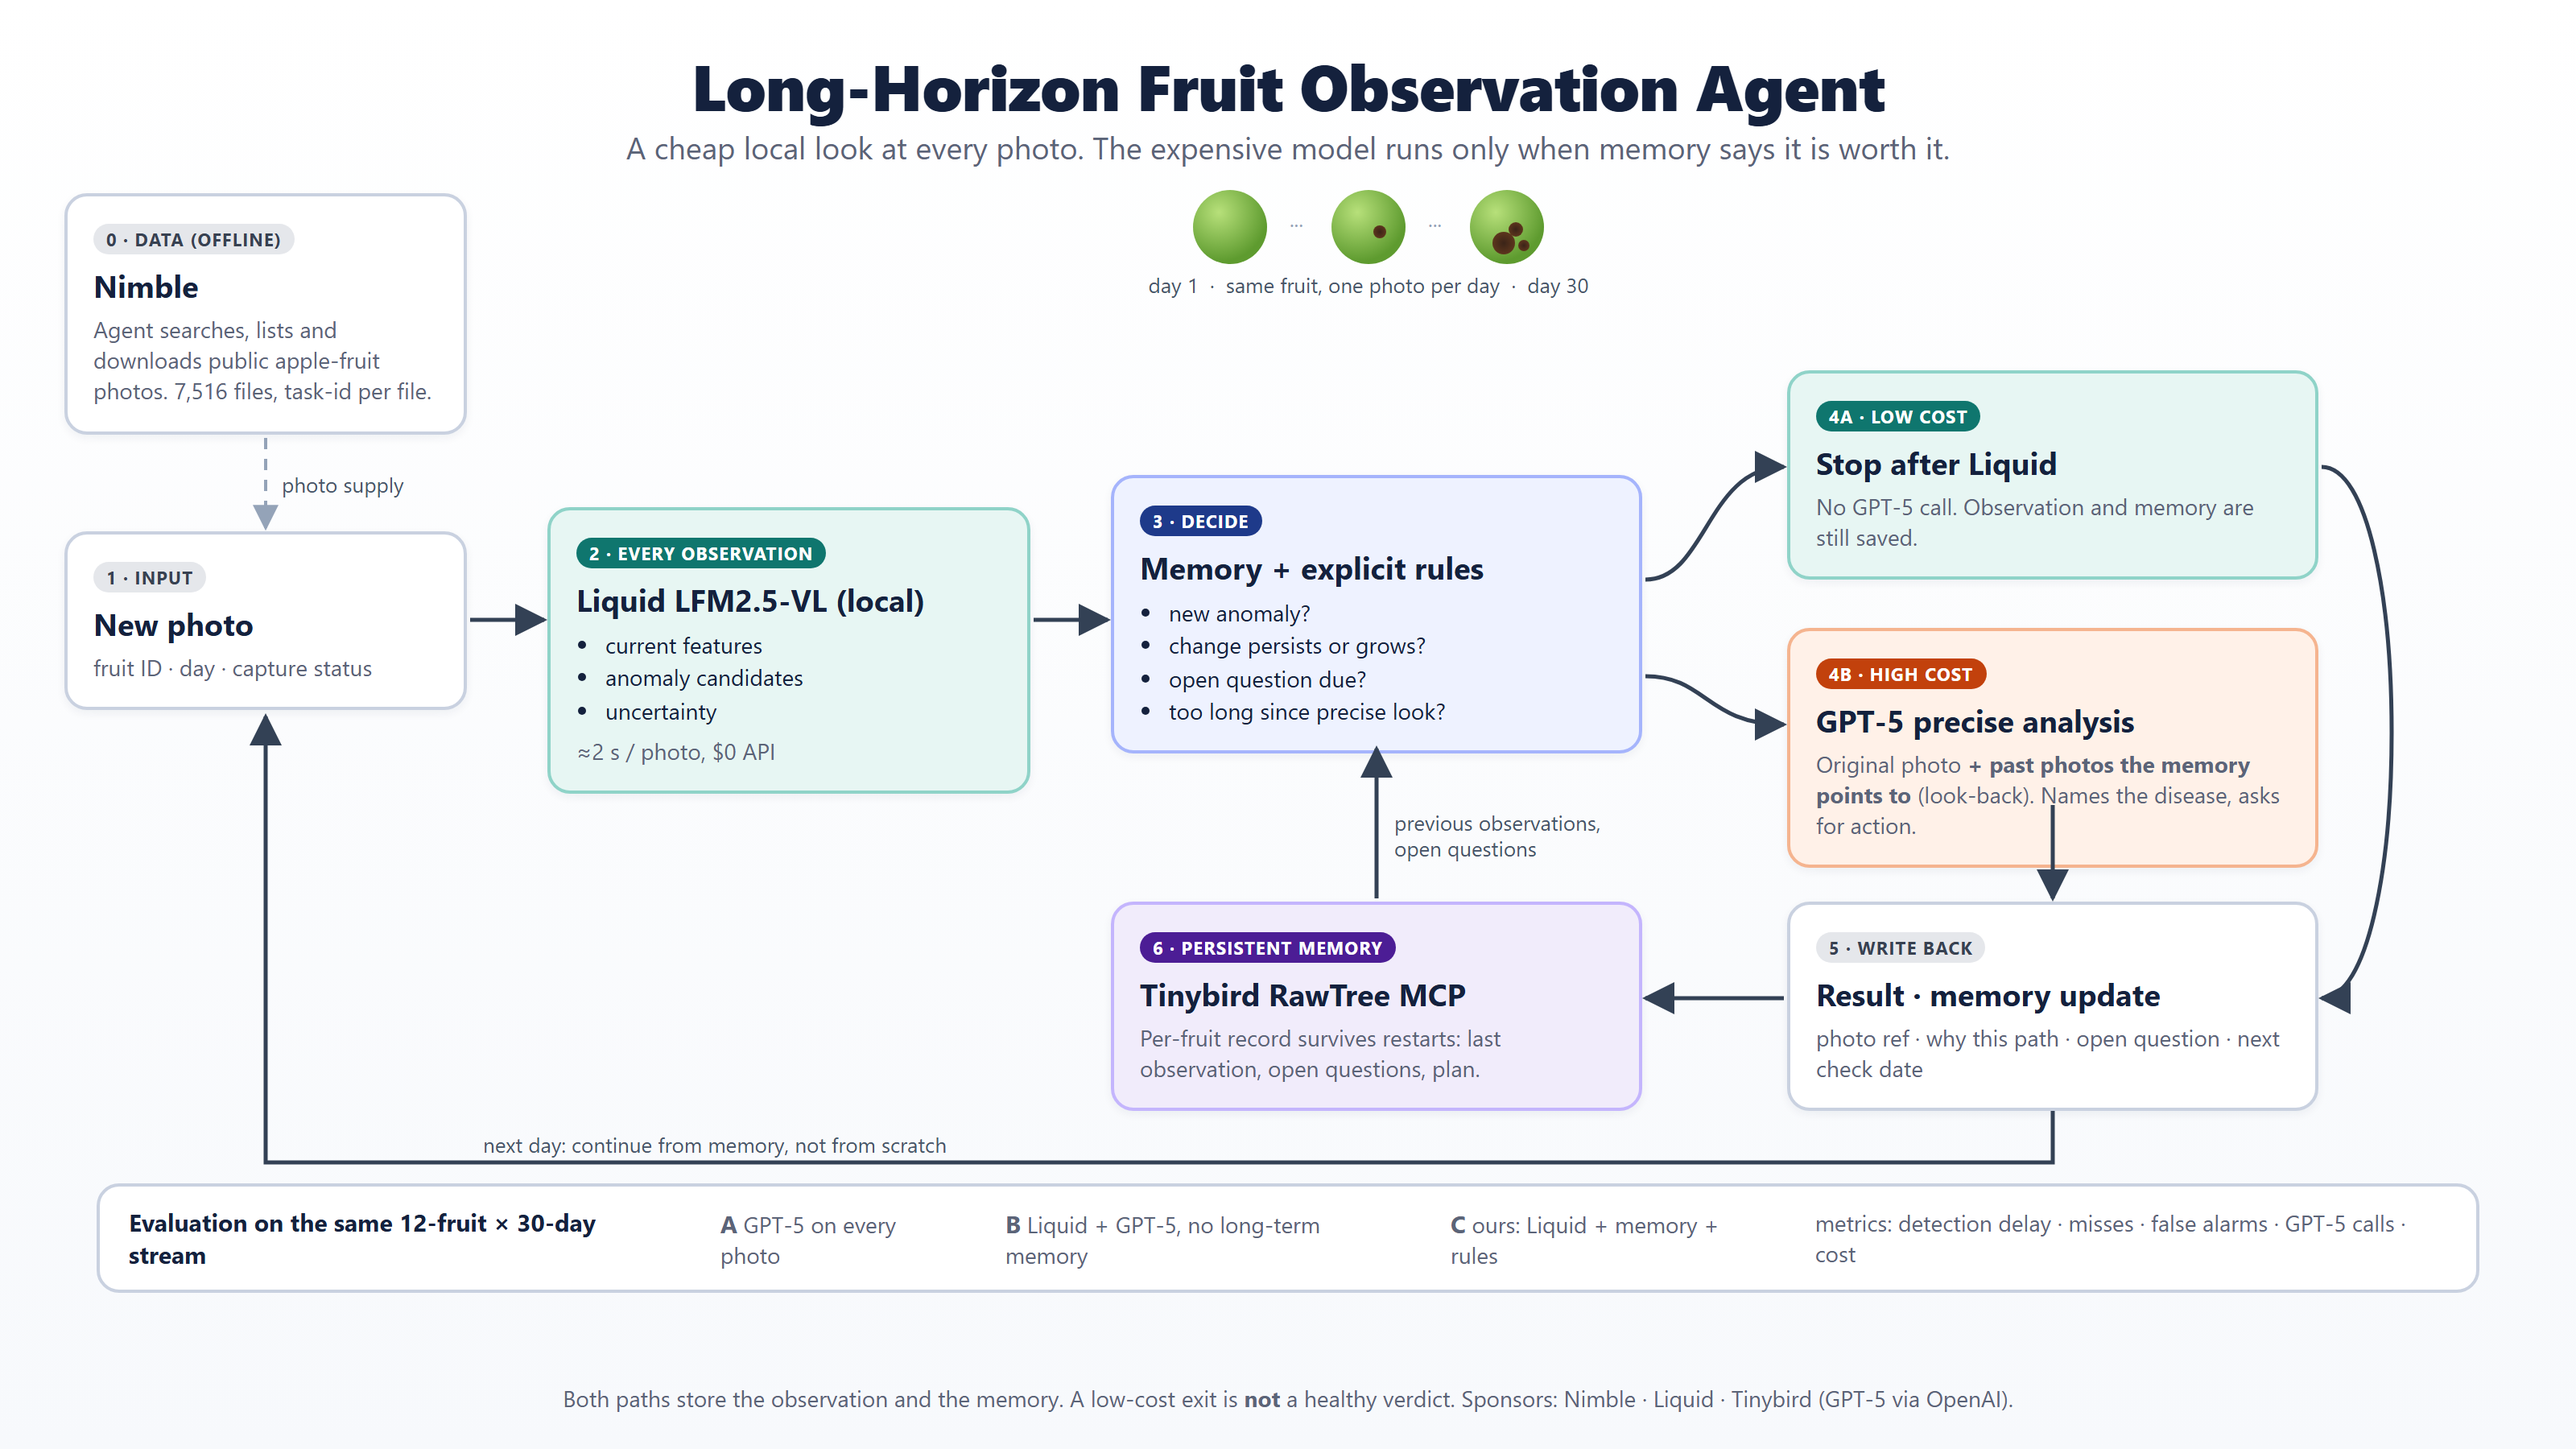
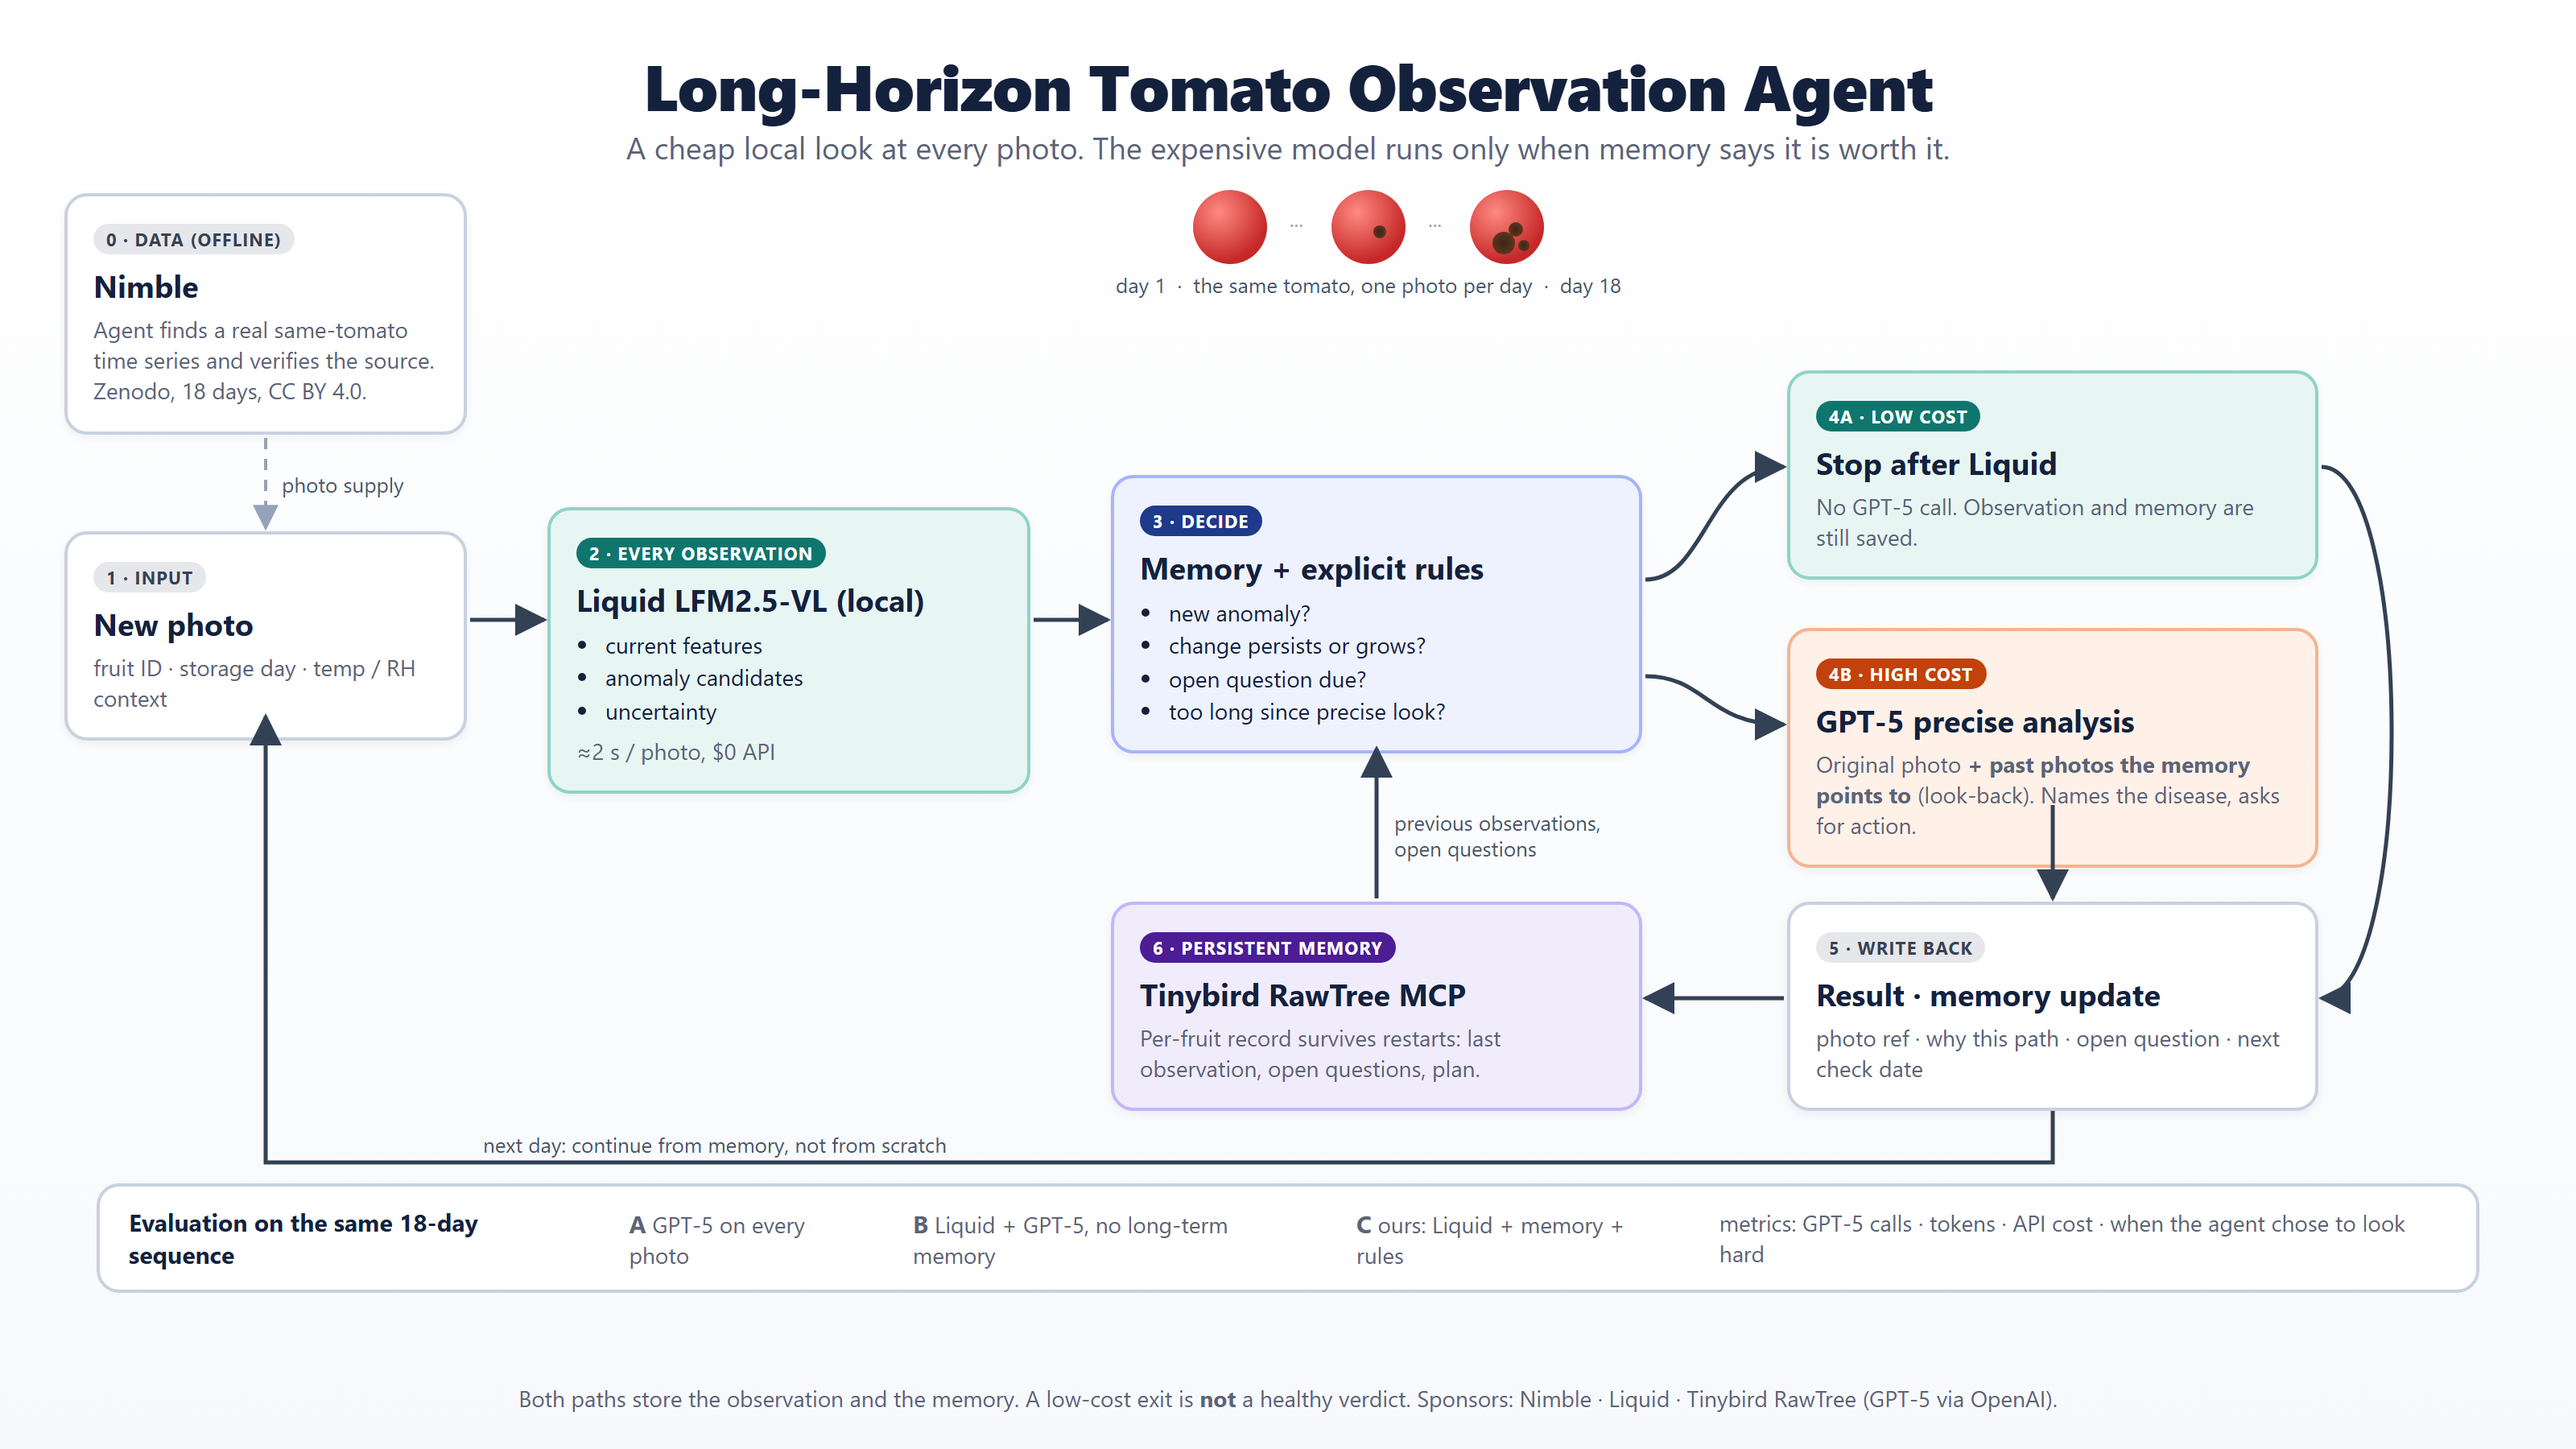
docs: README to tomato (18-day Zenodo sequence), A/B numbers from reports, drop Team, shorten Data

diff --git a/README.md b/README.md
@@ -1,84 +1,89 @@
-# Long-Horizon Fruit Observation Agent
+# Long-Horizon Tomato Observation Agent
 
-**Watch one fruit every day for a month. Look cheaply every time, look hard only when memory says it is worth it, and never forget what you saw.**
+**Watch the same tomato every day. Look cheaply every time, look hard only when memory says it is worth it, and never forget what you saw.**
 
 ![Architecture](docs/cover/flow.png)
 
 ## The problem
 
-A fruit disease starts as a dot a few millimetres wide and becomes an unsellable fruit in two to three weeks.
-Once one infected apple enters cold storage the loss spreads to its neighbours.
-Sensors cannot see this. Only a photo can, and a photo has to be taken again and again, for weeks, for every fruit.
+A fruit in storage changes slowly. Most days the photo looks like yesterday's photo.
+Running a frontier vision model on every photo is accurate but wasteful. Running only a small local model is cheap but misses the day a small spot starts to grow.
+Sensors cannot see this. Only a photo can, and the photo has to be judged against what the same fruit looked like before.
 
-Running a frontier vision model on every photo of every fruit is accurate but too expensive to keep on for a season.
-Running a small local model only is cheap but misses the early stage.
-The agent's job is to decide, **for each fruit, each day**, whether today's photo deserves the expensive look, using what it remembers about that fruit.
+The agent's question, for one fruit, every day:
+
+> Given what I remember about this tomato, is today's photo worth the expensive look, or is the cheap look enough?
 
 ## Why this needs an agent, not a threshold
 
-- **Memory across days.** The decision depends on what the same fruit looked like last week, which question was left open, and when the last precise check was. That state lives in Tinybird RawTree and survives restarts.
-- **Look-back, not just escalation.** When the precise model runs, it receives the *past photos the memory points to*, so it can confirm a slow change that no single photo shows.
-- **Deferred judgement.** A low-cost exit is not a "healthy" verdict. It is "nothing new enough to pay for today." The open question stays in memory until it is answered or expires.
+- **Memory across days.** The decision depends on last week's photo, the question left open, and when the last precise check was. That state lives in Tinybird RawTree and survives process restarts.
+- **Look-back, not just escalation.** When GPT-5 runs, it receives the past photos the memory points to, so it can confirm a slow change that no single photo shows.
+- **Deferred judgement.** A low-cost exit is not a "healthy" verdict. It means "nothing new enough to pay for today." The open question stays in memory until it is answered or expires.
 
 ## How it works
 
 | Step | Component | What it does |
 | --- | --- | --- |
-| 0 | **Nimble** | The agent searches, lists and downloads public apple-fruit photos. 7,516 files with a Nimble task-id per file ([evidence](docs/cover/nimble_evidence.png)). |
-| 1 | Input | One photo per fruit per day: fruit ID, day, capture status. |
-| 2 | **Liquid LFM2.5-VL** (local) | Runs on every photo. Current features, anomaly candidates, uncertainty. About 2 s per photo, no API cost. |
+| 0 | **Nimble** | Searches for real same-fruit time series and verifies the source page. Request logs in `data/catalog/tomato/nimble/`. |
+| 1 | Input | One photo per day of the same tomato, with storage day and temperature / humidity context. |
+| 2 | **Liquid LFM2.5-VL-1.6B** (local) | Runs on every photo. Visible features, anomaly candidates, uncertainty. About 2 s per photo, no API cost. |
 | 3 | Controller | Reads the fruit's memory and applies explicit rules: new anomaly, change that persists or grows, open question due, too long since the last precise look. |
-| 4a | Low cost | Stop after Liquid. Observation and memory are still written. |
-| 4b | High cost | **GPT-5** precise analysis on the original photo plus the past photos the memory selects. Names the disease and asks for action. |
-| 5 | Write back | Photo reference, why this path was chosen, open question, next check date. |
-| 6 | **Tinybird RawTree MCP** | Persistent per-fruit memory, read before every decision. |
+| 4a | `LOW_COST_ONLY` | Stop after Liquid. Observation and memory are still written. |
+| 4b | `HIGH_COST_ANALYSIS` | **GPT-5** on the original photo plus the past evidence the memory selects. |
+| 5 | Write back | Photo reference, why this path was chosen, open question, next check condition. |
+| 6 | **Tinybird RawTree MCP** | Persistent per-fruit memory, restored before every decision. |
 
 ## Evaluation
 
-All arms run on the same stream: 12 fruits x 30 days, 360 photos, with hidden ground truth (disease and onset day).
+Three arms replay the same 18-day sequence with the same policy version.
 
-| Arm | Policy | Question it answers |
-| --- | --- | --- |
-| A | GPT-5 on every photo | Cost ceiling |
-| B | Liquid on every photo, GPT-5 by rules, **no long-term memory** | What memory adds |
-| C | Liquid on every photo, GPT-5 by memory + rules (ours) | |
+| Arm | Policy | GPT-5 calls | Low-cost days | Est. API cost (USD) |
+| --- | --- | --- | --- | --- |
+| A | GPT-5 on every photo | 18 | 0 | 0.0227 |
+| B | Liquid every day, GPT-5 by rules, **no long-term memory** | 16 | 2 | 0.0203 |
+| C | Liquid every day, GPT-5 by memory + rules (ours) | pending | pending | pending |
 
-Metrics: detection delay after onset, misses, false alarms on healthy fruit, number of GPT-5 calls, cost.
-Results are written to `out/scores_episodes.json` by the scorer. **Results are not in yet; this section will be updated when the runs finish.**
+Numbers come from `reports/tomato_demo.json` (policy `tomato-two-path-v1`). B cut GPT-5 calls by 11 % against A on this single specimen.
+Arm C with live RawTree memory is implemented (`tomato_agent run --variant C --backend rawtree`); its replay numbers are being added.
 
-![One episode](docs/cover/episode_strip.jpg)
+What the numbers do **not** say: this is one tomato with no disease ground truth, so recall, false-positive rate and detection delay are reported as `null`, not as zero. Cost is a published-price estimate, not an invoice.
 
-*One episode as the agent sees it: healthy for six days, then black pox appears at t6 and spreads.*
+![18-day sequence](docs/cover/tomato_18day_strip.jpg)
 
-## Data, honestly
+*The input as the agent sees it: the same tomato on 18 consecutive storage days.*
 
-- Photos: Manalagi Apple Disease Dataset (Mendeley Data, `10.17632/9zgkwwv9j8.6`, CC BY 4.0). Classes: healthy, anthracnose, black pox, powdery mildew.
-- Acquired autonomously through Nimble (search, extract, media). Every file carries its Nimble task-id and SHA-1 in `data/apple_nimble/index.csv`.
-- **The episodes are not true time series.** No public dataset follows the same fruit through a disease. We ordered photos of *different* apples by lesion size to build a plausible day-by-day sequence. The agent is never told which day the disease starts.
+## Data
+
+Zenodo record 21943147, one untreated red-stage tomato photographed on 18 consecutive days under ambient storage, with daily temperature, humidity, eCO2 and TVOC context. CC BY 4.0, all 19 files MD5-verified. Provenance and checksums are in `data/samples/tomato_18day/provenance.json`. The agent receives frames in order and is never shown future frames.
 
 ## Sponsors used
 
-Nimble (data acquisition) · Liquid (local vision model, every observation) · Tinybird RawTree MCP (persistent memory). GPT-5 through the OpenAI API for the precise path.
+Nimble (source discovery and verification) · Liquid (local vision model, every observation) · Tinybird RawTree MCP (persistent memory). GPT-5 through the OpenAI API for the precise path.
 
 ## Repository
 
 ```text
-tomato_agent/     agent loop: Liquid -> controller -> GPT-5, memory read/write
-liquid/           local LFM2.5-VL setup and benchmark
+tomato_agent/     agent loop: Liquid -> controller -> GPT-5, memory read/write, restart recovery
+liquid/           local LFM2.5-VL setup, benchmark, routing guard tests
 tinybird/         RawTree tables and memory event contract
-scripts/          Nimble collection, RawTree MCP probes
-docs/             design notes (Korean plan: docs/PLAN_ko.md)
+scripts/          tomato collection, RawTree MCP probes, Nimble search
+reports/          tomato_demo.html / .json  (replay viewer and A/B/C numbers)
+docs/             runtime.md (how to run), tomato_data.md, PLAN_ko.md (original plan, Korean)
 ```
 
 ## Quick start
 
 ```sh
 pip install -r requirements.txt
-cp .env.example .env            # fill NIMBLE_API_KEY, OPENAI_API_KEY, RawTree settings; .env is git-ignored
-python3 -m unittest discover -s liquid -p 'test_*.py'   # rule checks, no model call
-python3 scripts/rawtree_mcp_stdio.py --check              # local key and binary check
+cp .env.example .env     # OPENAI_API_KEY, RAWTREE_API_KEY, NIMBLE_API_KEY  (.env is git-ignored)
+
+python3 scripts/collect_tomatoes.py                        # fetch and verify the 18-day sequence
+python3 -m unittest discover -s tests -p 'test_*.py'       # policy / storage / budget / restart, no model calls
+
+python3 -m tomato_agent run --variant A --backend local   --run-id demo_a
+python3 -m tomato_agent run --variant B --backend local   --run-id demo_b
+python3 -m tomato_agent run --variant C --backend rawtree --run-id demo_c
+python3 -m tomato_agent report data/runs/demo_a data/runs/demo_b data/runs/demo_c --output reports/tomato_demo.html
 ```
 
-## Team
-
-Three people: an agricultural engineer (RDA, Korea), a front-end developer, and a fluid-dynamics researcher. Built at the Long Horizon Agents Hack, 2026-09-26.
+Details, budget caps and restart behaviour: [docs/runtime.md](docs/runtime.md).
